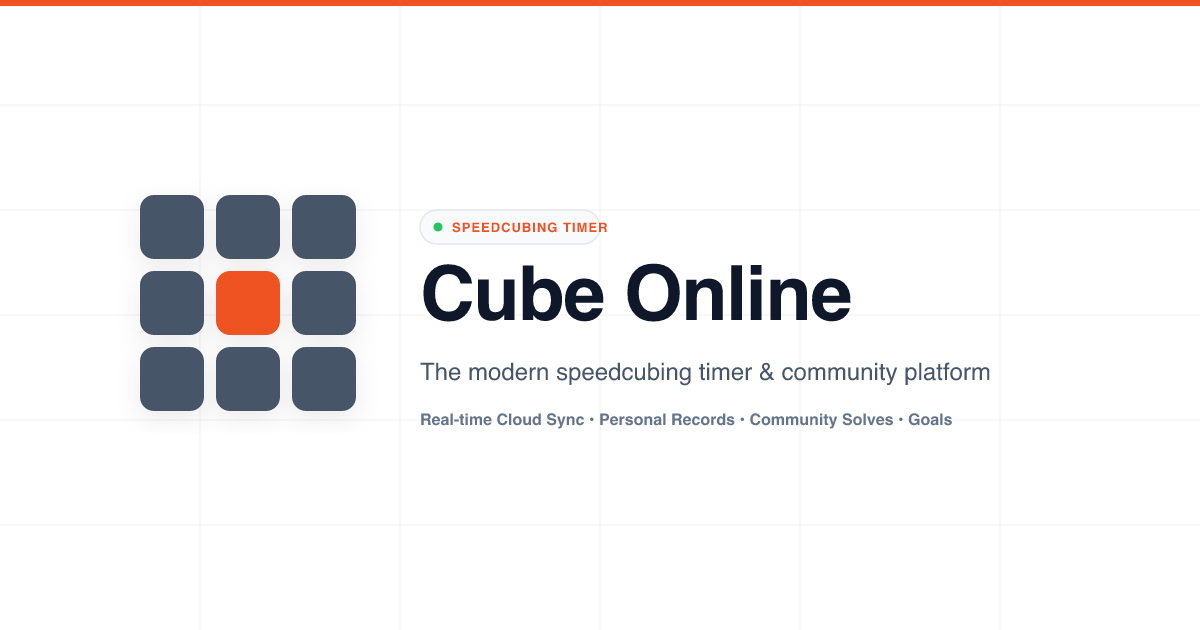
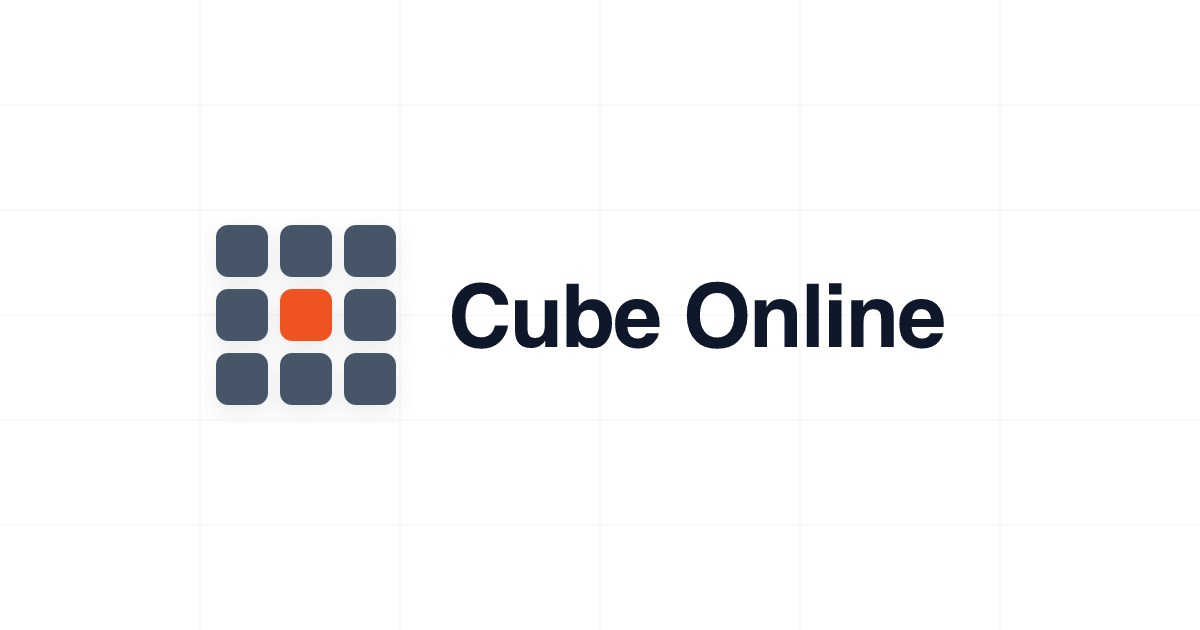
refactor: disable dynamic OG images for user profiles to enable compact sharing previews and update static OG assets

diff --git a/api/meta.ts b/api/meta.ts
@@ -1,8 +1,7 @@
 export default async function handler(req: any, res: any) {
-    const { userId, name, color, code } = req.query || {};
+    const { userId, name, code } = req.query || {};
 
     let profileName = (name && typeof name === 'string') ? name.trim() : '';
-    let profileColor = (color && typeof color === 'string') ? color : '#3b82f6';
     let profileCode = (code && typeof code === 'string') ? code.replace('#', '').trim() : '';
 
     // If userId provided and name/code not already in query, fetch from Firestore REST API
@@ -18,7 +17,6 @@ export default async function handler(req: any, res: any) {
                 const docData: any = await response.json();
                 if (docData && docData.fields) {
                     profileName = docData.fields.username?.stringValue || 'CubingUser';
-                    profileColor = docData.fields.color?.stringValue || '#3b82f6';
                     profileCode = docData.fields.shortId?.stringValue || '';
                 }
             } else {
@@ -47,7 +45,6 @@ export default async function handler(req: any, res: any) {
                     if (Array.isArray(qResult) && qResult[0]?.document?.fields) {
                         const fields = qResult[0].document.fields;
                         profileName = fields.username?.stringValue || 'CubingUser';
-                        profileColor = fields.color?.stringValue || '#3b82f6';
                         profileCode = fields.shortId?.stringValue || cleanId;
                     }
                 }
@@ -57,23 +54,19 @@ export default async function handler(req: any, res: any) {
         }
     }
 
+    const isProfile = Boolean(userId) || Boolean(profileName && profileName !== 'Cube Online');
     const displayName = profileName || 'Cube Online';
     const cleanCode = profileCode ? profileCode.replace('#', '').trim() : '';
     // Formatted strictly as "[name]#[code]" for profiles without adding "Cube Online"
     const title = cleanCode ? `${displayName}#${cleanCode}` : (profileName ? displayName : 'Cube Online');
-    const description = `View speedcubing personal records, goal progress, and community solves on Cube Online.`;
-
-    // Dynamic OG image URL
-    const ogParams = new URLSearchParams();
-    if (displayName) ogParams.set('name', displayName);
-    if (profileColor) ogParams.set('color', profileColor);
-    if (cleanCode) ogParams.set('code', cleanCode);
+    const description = isProfile 
+        ? `View speedcubing personal records, goal progress, and community solves on Cube Online.`
+        : `The modern speedcubing timer and community platform.`;
 
     const host = req.headers['x-forwarded-host'] || req.headers.host || 'cubeonline.org';
     const protocol = (req.headers['x-forwarded-proto'] === 'http') ? 'http' : 'https';
     const baseUrl = `${protocol}://${host}`;
 
-    const ogImageUrl = `${baseUrl}/api/og?${ogParams.toString()}`;
     const targetUrl = `${baseUrl}/social${userId ? `/${encodeURIComponent(userId)}` : ''}`;
 
     const html = `<!DOCTYPE html>
@@ -84,27 +77,31 @@ export default async function handler(req: any, res: any) {
   <meta name="description" content="${escapeHtml(description)}" />
   <meta name="viewport" content="width=device-width, initial-scale=1.0" />
 
-  <!-- Icons -->
+  <!-- Icons (Transparent Favicon for compact profile bubble previews) -->
   <link rel="icon" type="image/png" sizes="48x48" href="${baseUrl}/favicon.png" />
   <link rel="apple-touch-icon" sizes="180x180" href="${baseUrl}/apple-touch-icon.png" />
   <meta name="theme-color" content="#ffffff" />
 
   <!-- Open Graph / iMessage / Facebook -->
-  <meta property="og:type" content="profile" />
+  <meta property="og:type" content="${isProfile ? 'profile' : 'website'}" />
   <meta property="og:site_name" content="Cube Online" />
   <meta property="og:title" content="${escapeHtml(title)}" />
   <meta property="og:description" content="${escapeHtml(description)}" />
-  <meta property="og:image" content="${escapeHtml(ogImageUrl)}" />
+  ${!isProfile ? `
+  <meta property="og:image" content="${baseUrl}/og-image.png" />
   <meta property="og:image:width" content="1200" />
   <meta property="og:image:height" content="630" />
   <meta property="og:image:type" content="image/png" />
+  ` : ''}
   <meta property="og:url" content="${escapeHtml(targetUrl)}" />
 
   <!-- Twitter -->
-  <meta name="twitter:card" content="summary_large_image" />
+  <meta name="twitter:card" content="${isProfile ? 'summary' : 'summary_large_image'}" />
   <meta name="twitter:title" content="${escapeHtml(title)}" />
   <meta name="twitter:description" content="${escapeHtml(description)}" />
-  <meta name="twitter:image" content="${escapeHtml(ogImageUrl)}" />
+  ${!isProfile ? `
+  <meta name="twitter:image" content="${baseUrl}/og-image.png" />
+  ` : ''}
 
   <!-- Redirect real browser visitors to the SPA route immediately -->
   <script>
@@ -112,7 +109,7 @@ export default async function handler(req: any, res: any) {
   </script>
 </head>
 <body style="background-color: #ffffff; color: #0f172a; font-family: sans-serif; display: flex; align-items: center; justify-content: center; height: 100vh; margin: 0;">
-  <p>Loading profile... <a href="${escapeHtml(targetUrl)}" style="color: #f05224;">Click here if not redirected</a>.</p>
+  <p>Loading... <a href="${escapeHtml(targetUrl)}" style="color: #f05224;">Click here if not redirected</a>.</p>
 </body>
 </html>`;
 

diff --git a/src/components/social/UserProfileView.tsx b/src/components/social/UserProfileView.tsx
@@ -98,12 +98,17 @@ export function UserProfileView({
             el.setAttribute(attr, value);
         };
 
-        const ogImageUrl = `${window.location.origin}/api/og?name=${encodeURIComponent(username)}&color=${encodeURIComponent(liveUser.color || '#3b82f6')}&code=${encodeURIComponent(cleanCode)}`;
+        const removeMeta = (selector: string) => {
+            const el = document.querySelector(selector);
+            if (el) el.remove();
+        };
 
         updateMeta('meta[property="og:title"]', 'content', pageTitle);
-        updateMeta('meta[property="og:image"]', 'content', ogImageUrl);
         updateMeta('meta[name="twitter:title"]', 'content', pageTitle);
-        updateMeta('meta[name="twitter:image"]', 'content', ogImageUrl);
+
+        // Remove og:image and twitter:image so profile sharing renders the compact bubble with just favicon
+        removeMeta('meta[property="og:image"]');
+        removeMeta('meta[name="twitter:image"]');
 
         return () => {
             document.title = previousTitle || 'Cube Online';
@@ -112,7 +117,7 @@ export function UserProfileView({
             updateMeta('meta[name="twitter:title"]', 'content', 'Cube Online');
             updateMeta('meta[name="twitter:image"]', 'content', `${window.location.origin}/og-image.png`);
         };
-    }, [liveUser.username, liveUser.shortId, liveUser.color]);
+    }, [liveUser.username, liveUser.shortId]);
 
     const handleShareProfile = async () => {
         const shareCode = liveUser.shortId || liveUser.uid;
